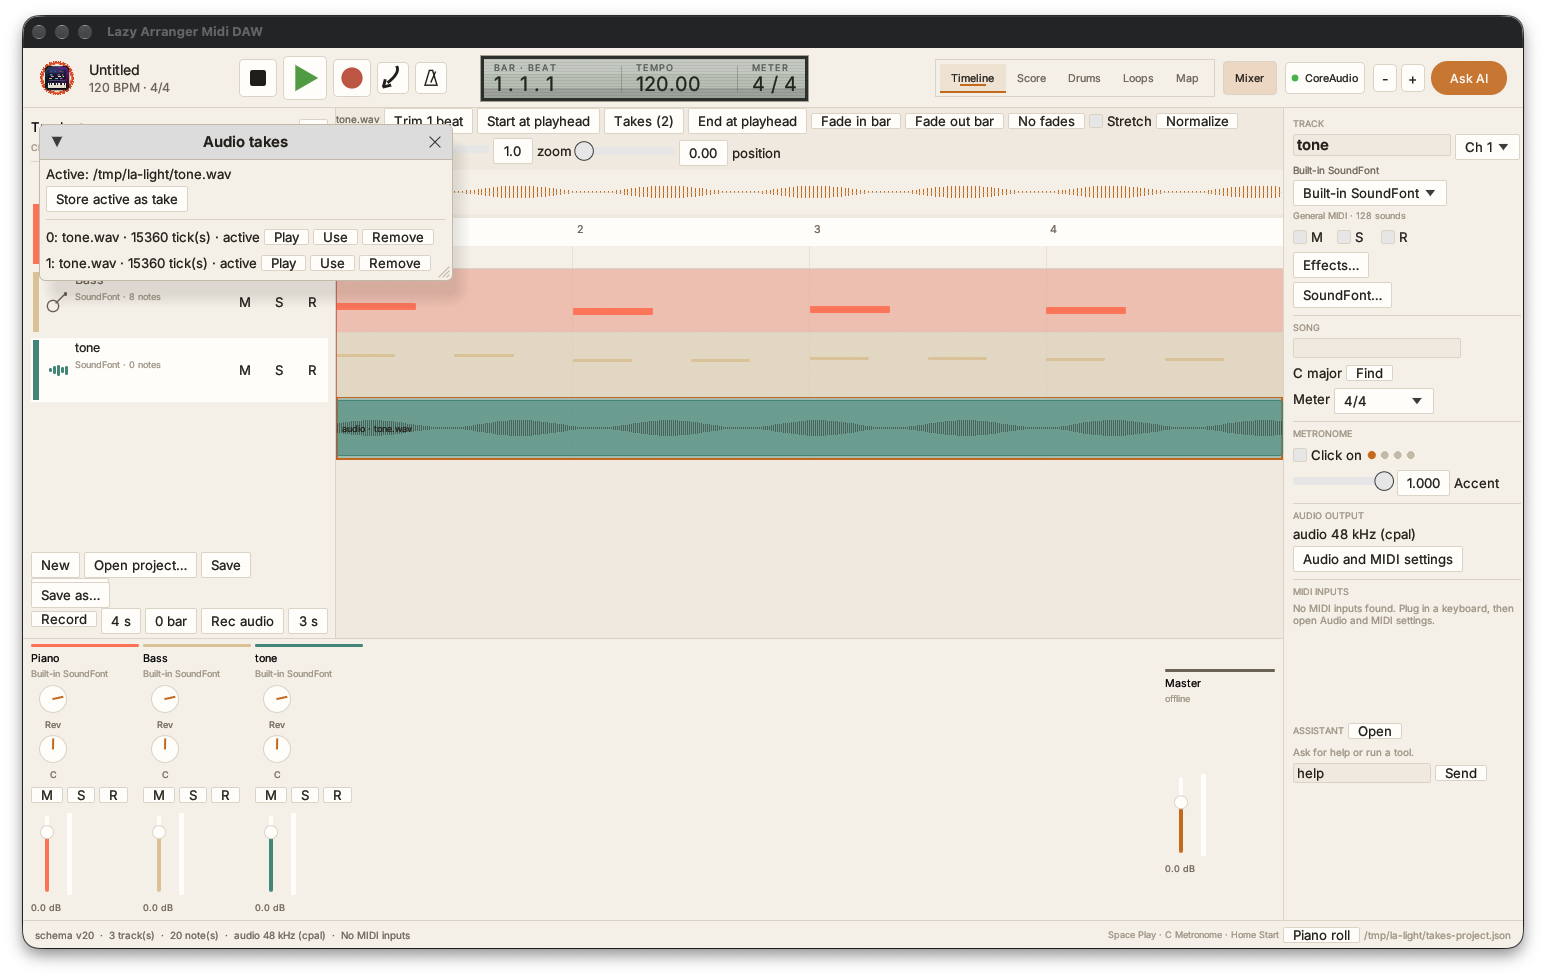
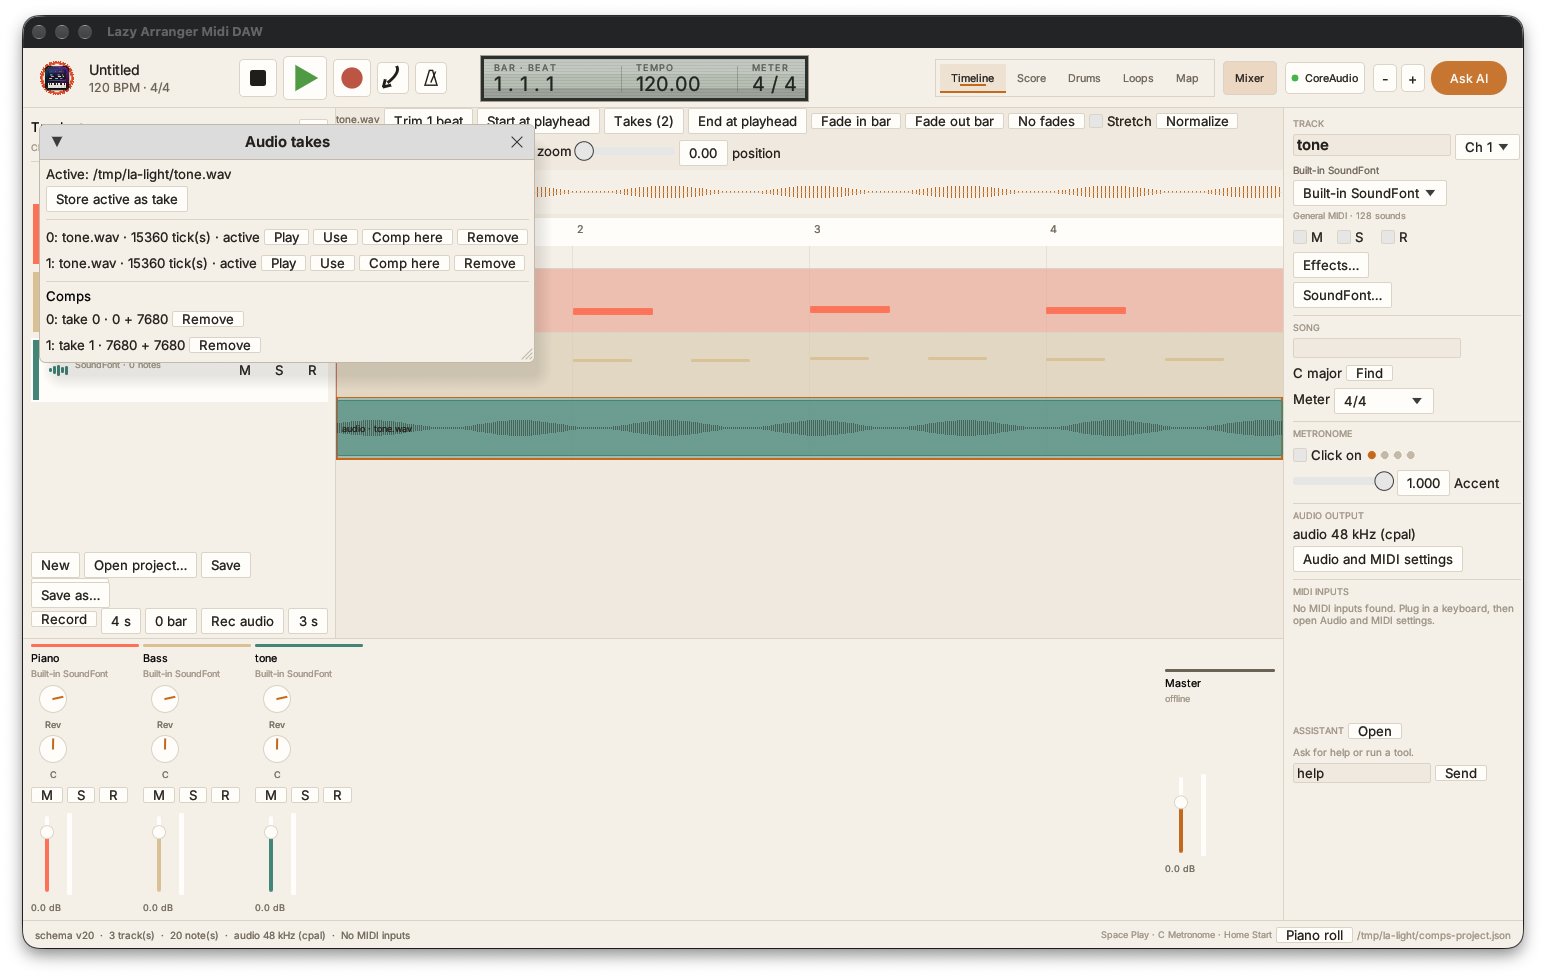
feat(audio): add comp spans over stored takes
Comps replace the active reference for their ranges; the takes window can add a
comp from the playhead and remove spans. Render and project round-trip tests
cover them.

773 tests pass; clippy, fmt and rustdoc clean.

diff --git a/apps/desktop/src/editor.rs b/apps/desktop/src/editor.rs
@@ -1418,6 +1418,73 @@ impl Editor {
         Ok(out)
     }
 
+    /// Adds a comp span that plays a stored take.
+    ///
+    /// # Errors
+    ///
+    /// Returns a message when the take or track is unknown.
+    pub fn add_audio_comp(
+        &mut self,
+        track: TrackId,
+        take: usize,
+        start: Tick,
+        length: Tick,
+    ) -> Result<(), String> {
+        let mut comps = self
+            .song()
+            .tracks
+            .iter()
+            .find(|entry| entry.id == track)
+            .map(|entry| entry.comps.clone())
+            .ok_or_else(|| String::from("unknown track"))?;
+        if self
+            .song()
+            .tracks
+            .iter()
+            .find(|entry| entry.id == track)
+            .is_none_or(|entry| take >= entry.takes.len())
+        {
+            return Err(String::from("unknown audio take"));
+        }
+        if length <= 0 {
+            return Err(String::from("comp length must be positive"));
+        }
+        comps.push(project::song::AudioComp {
+            take,
+            start: start.max(0),
+            length,
+        });
+        self.session
+            .apply(app_commands::Command::SetAudioComps { track, comps })
+            .map_err(|error| error.to_string())?;
+        self.dirty = true;
+        Ok(())
+    }
+
+    /// Removes one comp span.
+    ///
+    /// # Errors
+    ///
+    /// Returns a message when the track or index is unknown.
+    pub fn remove_audio_comp(&mut self, track: TrackId, index: usize) -> Result<(), String> {
+        let mut comps = self
+            .song()
+            .tracks
+            .iter()
+            .find(|entry| entry.id == track)
+            .map(|entry| entry.comps.clone())
+            .ok_or_else(|| String::from("unknown track"))?;
+        if index >= comps.len() {
+            return Err(String::from("unknown comp span"));
+        }
+        comps.remove(index);
+        self.session
+            .apply(app_commands::Command::SetAudioComps { track, comps })
+            .map_err(|error| error.to_string())?;
+        self.dirty = true;
+        Ok(())
+    }
+
     /// Stores the active audio reference as an alternate take.
     ///
     /// # Errors
@@ -2412,6 +2479,31 @@ mod tests {
             .find(|note| note.id == id)
             .expect("note");
         assert_eq!(note.duration, music_core::PPQ / 2);
+    }
+
+    #[test]
+    fn audio_comps_add_and_remove() {
+        let mut song = Song::new("Comps", 120.0);
+        let mut track = Track::new(TrackId::new(1).expect("track"), "Audio");
+        track.takes.push(project::song::AudioRef {
+            path: String::from("take.wav"),
+            start: 0,
+            length: music_core::PPQ,
+            offset: 0,
+            fade_in: 0,
+            fade_out: 0,
+            stretch: false,
+        });
+        song.tracks.push(track);
+        let mut editor = Editor::new(ProjectFile::new(song)).expect("editor");
+        editor
+            .add_audio_comp(TrackId::new(1).expect("track"), 0, 0, music_core::PPQ)
+            .expect("add");
+        assert_eq!(editor.song().tracks[0].comps.len(), 1);
+        editor
+            .remove_audio_comp(TrackId::new(1).expect("track"), 0)
+            .expect("remove");
+        assert!(editor.song().tracks[0].comps.is_empty());
     }
 
     #[test]

diff --git a/apps/desktop/src/app.rs b/apps/desktop/src/app.rs
@@ -3998,12 +3998,18 @@ impl ShellApp {
             self.takes_open = false;
             return;
         };
-        let (active, takes) = self
+        let (active, takes, comps) = self
             .song()
             .tracks
             .iter()
             .find(|track| track.id == track_id)
-            .map(|track| (track.audio.clone(), track.takes.clone()))
+            .map(|track| {
+                (
+                    track.audio.clone(),
+                    track.takes.clone(),
+                    track.comps.clone(),
+                )
+            })
             .unwrap_or_default();
         let mut open = self.takes_open;
         let mut action = None;
@@ -4056,8 +4062,31 @@ impl ShellApp {
                         if ui.small_button("Use").clicked() {
                             action = Some((index, 1));
                         }
+                        if ui.small_button("Comp here").clicked() {
+                            action = Some((index, 3));
+                        }
                         if ui.small_button("Remove").clicked() {
                             action = Some((index, 2));
+                        }
+                    });
+                }
+                ui.separator();
+                ui.label(egui::RichText::new("Comps").strong());
+                if comps.is_empty() {
+                    ui.label(
+                        egui::RichText::new("No comp spans; the active reference plays.")
+                            .size(10.0)
+                            .color(theme::text_dim()),
+                    );
+                }
+                for (index, comp) in comps.iter().enumerate() {
+                    ui.horizontal(|ui| {
+                        ui.label(format!(
+                            "{index}: take {} · {} + {}",
+                            comp.take, comp.start, comp.length
+                        ));
+                        if ui.small_button("Remove").clicked() {
+                            action = Some((index, 4));
                         }
                     });
                 }
@@ -4066,7 +4095,13 @@ impl ShellApp {
             let result = match kind {
                 0 => self.editor.store_audio_take(track_id).map(|_| ()),
                 1 => self.editor.use_audio_take(track_id, index),
-                _ => self.editor.remove_audio_take(track_id, index),
+                2 => self.editor.remove_audio_take(track_id, index),
+                3 => {
+                    let length = takes.get(index).map_or(0, |take| take.length.max(1));
+                    self.editor
+                        .add_audio_comp(track_id, index, self.position, length)
+                }
+                _ => self.editor.remove_audio_comp(track_id, index),
             };
             match result {
                 Ok(()) => self.status = Some(String::from("audio takes updated")),

diff --git a/crates/audio/src/lib.rs b/crates/audio/src/lib.rs
@@ -322,8 +322,19 @@ pub fn render_with_soundfont(
             load(&reference.path).map(|font| (font, reference.bank, reference.program))
         });
         let mut track_buffer = vec![0.0_f32; frames * usize::from(CHANNELS)];
-        if let Some(reference) = &track.audio {
-            mix_audio_reference(song, track, &mut track_buffer, reference, sample_rate);
+        if track.comps.is_empty() {
+            if let Some(reference) = &track.audio {
+                mix_audio_reference(song, track, &mut track_buffer, reference, sample_rate);
+            }
+        } else {
+            for comp in &track.comps {
+                if let Some(take) = track.takes.get(comp.take) {
+                    let mut placed = take.clone();
+                    placed.start = comp.start;
+                    placed.length = comp.length;
+                    mix_audio_reference(song, track, &mut track_buffer, &placed, sample_rate);
+                }
+            }
         }
         if let Some(mut instrument) = instrument_for(track, sample_rate) {
             render_instrument(
@@ -1649,6 +1660,45 @@ mod tests {
                 .fold(0.0_f32, |peak, sample| peak.max(sample.abs()))
         };
         assert!(peak(&with_send) > peak(&dry), "a send adds the wet copy");
+    }
+
+    #[test]
+    fn comped_spans_replace_the_active_reference() {
+        use project::song::{AudioComp, AudioRef, Track};
+        let mut song = Song::new("Comp", 120.0);
+        let mut track = Track::new(TrackId::new(1).expect("track"), "Audio");
+        let path =
+            std::env::temp_dir().join(format!("lazy-arranger-comp-{}.wav", std::process::id()));
+        let source = RenderedAudio {
+            samples: vec![0.5; SAMPLE_RATE as usize * 2],
+            sample_rate: SAMPLE_RATE,
+        };
+        std::fs::write(&path, source.to_wav32f()).expect("wav");
+        let reference = AudioRef {
+            path: path.display().to_string(),
+            start: 0,
+            length: music_core::PPQ * 2,
+            offset: 0,
+            fade_in: 0,
+            fade_out: 0,
+            stretch: false,
+        };
+        track.audio = Some(reference.clone());
+        track.takes.push(reference);
+        track.comps.push(AudioComp {
+            take: 0,
+            start: 0,
+            length: music_core::PPQ / 2,
+        });
+        song.tracks.push(track);
+        let rendered = render(&song, SAMPLE_RATE);
+        let _ = std::fs::remove_file(&path);
+        assert!(rendered.samples[0] > 0.3, "comp starts with the take");
+        let after = (SAMPLE_RATE as f64 * 0.6).round() as usize;
+        assert!(
+            rendered.samples[after * 2].abs() < 1.0e-6,
+            "the active reference is replaced outside the comp"
+        );
     }
 
     #[test]

diff --git a/crates/app-commands/src/lib.rs b/crates/app-commands/src/lib.rs
@@ -171,6 +171,13 @@ pub enum Command {
         /// Stored takes.
         takes: Vec<project::song::AudioRef>,
     },
+    /// Replace a track's comped audio spans.
+    SetAudioComps {
+        /// The track.
+        track: TrackId,
+        /// Comped spans.
+        comps: Vec<project::song::AudioComp>,
+    },
     /// Replace a track's stored audio takes.
     SetAudioTakes {
         /// The track.
@@ -304,6 +311,7 @@ impl Command {
             Self::SetAutomation { .. } => "set automation",
             Self::SetAudioRef { .. } => "set audio reference",
             Self::SetAudioState { .. } => "set audio state",
+            Self::SetAudioComps { .. } => "set audio comps",
             Self::SetAudioTakes { .. } => "set audio takes",
             Self::FreezeTrack { .. } => "freeze track",
             Self::RestoreTrack { .. } => "restore track",
@@ -900,6 +908,10 @@ impl EditSession {
                 reference: self.track(*track)?.audio.clone(),
                 takes: self.track(*track)?.takes.clone(),
             },
+            Command::SetAudioComps { track, .. } => Command::SetAudioComps {
+                track: *track,
+                comps: self.track(*track)?.comps.clone(),
+            },
             Command::SetAudioTakes { track, .. } => Command::SetAudioTakes {
                 track: *track,
                 takes: self.track(*track)?.takes.clone(),
@@ -1121,6 +1133,9 @@ impl EditSession {
                 track.audio = reference.clone();
                 track.takes = takes.clone();
             }
+            Command::SetAudioComps { track, comps } => {
+                self.track_mut(*track)?.comps = comps.clone();
+            }
             Command::SetAudioTakes { track, takes } => {
                 self.track_mut(*track)?.takes = takes.clone();
             }
@@ -1307,6 +1322,9 @@ fn describe(command: &Command) -> String {
         Command::RestoreTrack { track, .. } => format!("restore track {track}"),
         Command::SetAudioState { track, takes, .. } => {
             format!("track {track}: audio state with {} take(s)", takes.len())
+        }
+        Command::SetAudioComps { track, comps } => {
+            format!("track {track}: {} comp span(s)", comps.len())
         }
         Command::SetAudioTakes { track, takes } => {
             format!("track {track}: {} audio take(s)", takes.len())

diff --git a/crates/project/src/song.rs b/crates/project/src/song.rs
@@ -488,6 +488,17 @@ pub struct BankSelect {
     pub lsb: u8,
 }
 
+/// A comped span that plays a stored take over part of the track.
+#[derive(Clone, Copy, Debug, PartialEq, Eq, serde::Serialize, serde::Deserialize)]
+pub struct AudioComp {
+    /// Index into [`Track::takes`].
+    pub take: usize,
+    /// First tick.
+    pub start: Tick,
+    /// Length in ticks.
+    pub length: Tick,
+}
+
 /// A track: an ordered list of notes with a name.
 #[derive(Clone, Debug, PartialEq, Serialize, Deserialize)]
 pub struct Track {
@@ -535,6 +546,9 @@ pub struct Track {
     /// Stored alternate audio takes for this track.
     #[serde(default, skip_serializing_if = "Vec::is_empty")]
     pub takes: Vec<AudioRef>,
+    /// Comped spans that replace parts of the active reference.
+    #[serde(default, skip_serializing_if = "Vec::is_empty")]
+    pub comps: Vec<AudioComp>,
     /// SoundFont preset used instead of the built-in timbre.
     #[serde(default, skip_serializing_if = "Option::is_none")]
     pub soundfont: Option<SoundFontRef>,
@@ -622,6 +636,7 @@ impl Track {
             pan: 64,
             audio: None,
             takes: Vec::new(),
+            comps: Vec::new(),
             soundfont: None,
             slurs: Vec::new(),
             program: None,
@@ -1623,17 +1638,28 @@ mod tests {
             fade_out: 0,
             stretch: false,
         });
+        track.comps.push(AudioComp {
+            take: 0,
+            start: 0,
+            length: 480,
+        });
         song.tracks.push(track);
         let json = serde_json::to_value(&song).expect("serialize");
         let back: Song = serde_json::from_value(json.clone()).expect("deserialize");
         assert_eq!(back.tracks[0].takes, song.tracks[0].takes);
+        assert_eq!(back.tracks[0].comps, song.tracks[0].comps);
         let mut older = json;
         older["tracks"][0]
             .as_object_mut()
             .expect("track")
             .remove("takes");
+        older["tracks"][0]
+            .as_object_mut()
+            .expect("track")
+            .remove("comps");
         let older: Song = serde_json::from_value(older).expect("older project");
         assert!(older.tracks[0].takes.is_empty());
+        assert!(older.tracks[0].comps.is_empty());
     }
 
     #[test]

diff --git a/docs/audit/cpp-features-crosscheck.md b/docs/audit/cpp-features-crosscheck.md
@@ -14,7 +14,7 @@ section below is a row, so nothing is skipped. Status: **verified**,
 | 5 | Timeline clips | partial | A C++-style Timeline view is the Arrange default with horizontal and vertical scrolling, playhead auto-follow while playing, header zoom: 64 px coloured per-track lanes with clips, notes, audio-reference blocks labelled with their file and cached waveform peaks, bar numbers and key-aware chord spelling, plus a Piano roll toggle for detailed editing. Clip and chord lanes: click select, drag a clip body to move or its right edge to resize on a 1/16 grid with an accent ghost preview, arrow move, shift+arrow resize, J join, N add, Delete remove; clip commands are undoable with overlap rejection. Markers and syllables are editable in Markers and Lyrics windows; markers draw in the bar ruler and each row has Go (add at playhead, edit or remove); timeline lyrics draw in their lane and a click seeks the playhead to the syllable; the Snap 1/16 toggle governs note drags and insertions; Shift-click and marquee multi-select clips, with arrow/Shift-arrow/Delete operations |
 | 6 | Note editor: add/select/move/resize/delete, arrows, velocity lane, grid, quantise, piano keys, select all | partial | Click insert, select, delete, undo/redo, save, scroll/zoom. Drag a note body to move start and pitch, or its right edge to resize; starts snap to a 1/16 grid and each change is one command. Quantise 1/16 and 1/8 buttons snap all starts; A velocity lane under the roll draws per-note bars and click/drag sets velocity through one command; a piano-key strip auditions a pitch on click, and Cmd/Ctrl+A selects all notes on the selected track for one-step multi-delete. No copy/paste across views |
 | 7 | Cut/copy/paste in every view | partial | Notes copy, cut and paste in Arrange with Cmd/Ctrl+C/X/V at the playhead, each paste one undo step; a chord range can be copied and pasted through the same clipboard. Cmd/Ctrl+C/X/V also work on a multi-selection: copy takes every selected note, cut copies then deletes in one edit per track, and paste lands at the playhead. Paste lands at the mouse tick when the pointer is over the roll, else at the playhead; clicking a notehead in the Score selects it, and clicking a chord in the chord lane selects it; C/X/V copy, remove and paste chord ranges there, and Shift+V pastes the range four times one range-length apart as one edit. Note ranges still paste once |
-| 8 | Audio tracks | partial | Audio references (schema v12; fades in v17) with WAV import at 16/24/32-bit PCM and 32-bit float plus symphonia FLAC/MP3/M4A/AIFF/OGG decode, an in-point, waveform peaks drawn in Arrange, trim-from-front, front-at-playhead and trim-end-at-playhead through undoable commands, tempo-derived length, and mixing into render and cpal playback with mute/solo, resampling and reported files. Audio refs now enter `render_with_soundfont` itself (before track plug-ins and bus routing) with start/offset/length, linear fades, optional stretch 64-frame volume/pan automation, and post-track sends with 64-frame send automation; a render test checks the mixed level and a `bounce` of a 1.6 s audio project produced a 0.918 peak WAV. A bounce command renders the mix, writes a WAV and inserts it as an audio track (one undoable insert); a Mixer Freeze button renders one track to WAV, clears its notes and sets its audio reference atomically; export-stems and the shell Export stems mode write each audible track to its own WAV plus a stems.txt manifest (demo produced 4 files); audio references carry fade-in/fade-out lengths mixed as linear ramps and set from the trim row. `stretch` resamples a reference to its clip length (pitch shifts; it is not a phase-vocoder stretch); the waveform has zoom and position sliders; `record-audio` and a sidebar Rec audio button capture the default input through cpal to WAV; an Import audio window adds WAV or compressed audio as an audio track; `wav-gain`/`wav-normalize` edit files and the trim row Normalize writes a normalized copy and switches the reference; an optional input monitor (Settings, default off, feedback risk) opens cpal input and output streams on the chosen channel or mix and is unverified on hardware; each capture becomes its own audio track unless a track is record-armed, in which case the take replaces that track's audio reference; a stored-take list can keep the active reference as a take and switch back; `get_audio_ref` reports takes and `set_audio_ref` accepts a `takes` array (schema-additive `Track.takes`, `docs/audit/audio-takes.png`); recording auto-stores the replaced reference as a take; overlapping comping remains absent and no in-place destructive waveform editing; capture/permission remain unverified here |
+| 8 | Audio tracks | partial | Audio references (schema v12; fades in v17) with WAV import at 16/24/32-bit PCM and 32-bit float plus symphonia FLAC/MP3/M4A/AIFF/OGG decode, an in-point, waveform peaks drawn in Arrange, trim-from-front, front-at-playhead and trim-end-at-playhead through undoable commands, tempo-derived length, and mixing into render and cpal playback with mute/solo, resampling and reported files. Audio refs now enter `render_with_soundfont` itself (before track plug-ins and bus routing) with start/offset/length, linear fades, optional stretch 64-frame volume/pan automation, and post-track sends with 64-frame send automation; a render test checks the mixed level and a `bounce` of a 1.6 s audio project produced a 0.918 peak WAV. A bounce command renders the mix, writes a WAV and inserts it as an audio track (one undoable insert); a Mixer Freeze button renders one track to WAV, clears its notes and sets its audio reference atomically; export-stems and the shell Export stems mode write each audible track to its own WAV plus a stems.txt manifest (demo produced 4 files); audio references carry fade-in/fade-out lengths mixed as linear ramps and set from the trim row. `stretch` resamples a reference to its clip length (pitch shifts; it is not a phase-vocoder stretch); the waveform has zoom and position sliders; `record-audio` and a sidebar Rec audio button capture the default input through cpal to WAV; an Import audio window adds WAV or compressed audio as an audio track; `wav-gain`/`wav-normalize` edit files and the trim row Normalize writes a normalized copy and switches the reference; an optional input monitor (Settings, default off, feedback risk) opens cpal input and output streams on the chosen channel or mix and is unverified on hardware; each capture becomes its own audio track unless a track is record-armed, in which case the take replaces that track's audio reference; a stored-take list can keep the active reference as a take and switch back; `get_audio_ref` reports takes and `set_audio_ref` accepts a `takes` array (schema-additive `Track.takes`, `docs/audit/audio-takes.png`); recording auto-stores the replaced reference as a take; comp spans replace the active reference in the render (`docs/audit/audio-takes.png`), with no automatic crossfades or overlap priority and no in-place destructive waveform editing; capture/permission remain unverified here |
 | 9 | Audio analysis | partial | Monophonic audio→MIDI, chroma-based chord recognition with a CLI, transcription answers still missing. stems, lyrics and stems export exist; a model-free `audio-tags`/`audio_tags` heuristic guesses drums/bass/pad/melodic from onset density, register and note length; still no trained instrument tags, higher-level transcription or model-based polyphony |
 | 10 | Drum sampler and slicer | partial | Onset detection, slicing, GM pad mapping, `drum-slice`, a P-key Drum pads window that loads a loop, grids 16 pads with names and lengths, auditions clicked pads through cpal, and a `pad <note>` MIDI-map action so an external keyboard triggers loaded pads. Pad start/end can be nudged by 10 ms with a 64-sample minimum (Inspector-style controls in the Drum pads window); there is no waveform dragging or drum-slice time-stretch, and audio references keep their pitch-shifting stretch |
 | 11 | Beat view | partial | Four drum rows by sixteen steps with off/soft/normal/loud cycling, read from and written to a bar as one undo step, B opens the grid. rows have C/P/X copy, paste and clear buttons (model row/set_row/clear_row); patterns cover 1, 2 or 4 bars in a horizontally scrolling grid with the span cleared and rewritten; Put-in-bars writes the pattern across four bars as one edit; four-bar grids scroll horizontally; both the inline Drums view and floating Beat editor step bar by bar (`docs/audit/beat-nav.png`, `docs/audit/ui-drums.png`) |

diff --git a/README.md b/README.md
@@ -49,15 +49,15 @@ section below is a row, so nothing is skipped. Status: **verified**,
 
 ## Scorecard
 
-39 sections at round 444: 0 fully verified beyond their Rust subset, 39 partial,
+39 sections at round 445: 0 fully verified beyond their Rust subset, 39 partial,
 0 missing. No section is missing at row level, but several rows are partial
 because they need hardware, proprietary formats, plugin editors or a model.
 The deepest partials are styles, full score, plugin editors, L6max device pages,
 Korg PCG, built-in speech/model services and hardware acceptance.
 
-## State at round 444
+## State at round 445
 
-`cargo fmt`, `clippy -D warnings`, `cargo test --workspace` (**771 tests**) and
+`cargo fmt`, `clippy -D warnings`, `cargo test --workspace` (**773 tests**) and
 rustdoc pass. A macOS bundle script creates an ad-hoc-signed
 `dist/Lazy Arranger Midi DAW.app`; the bundle was launched and captured in
 `docs/audit/app-bundle.png`.
